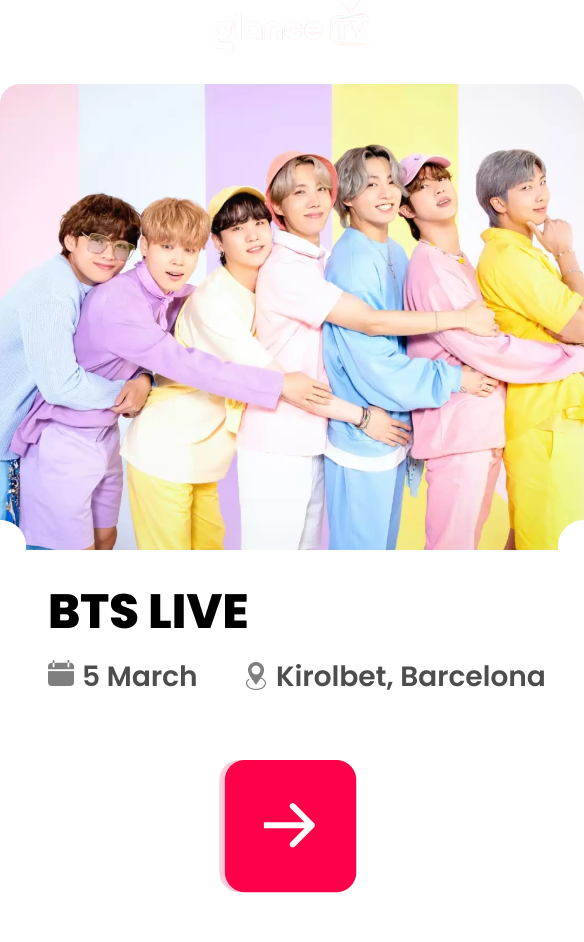
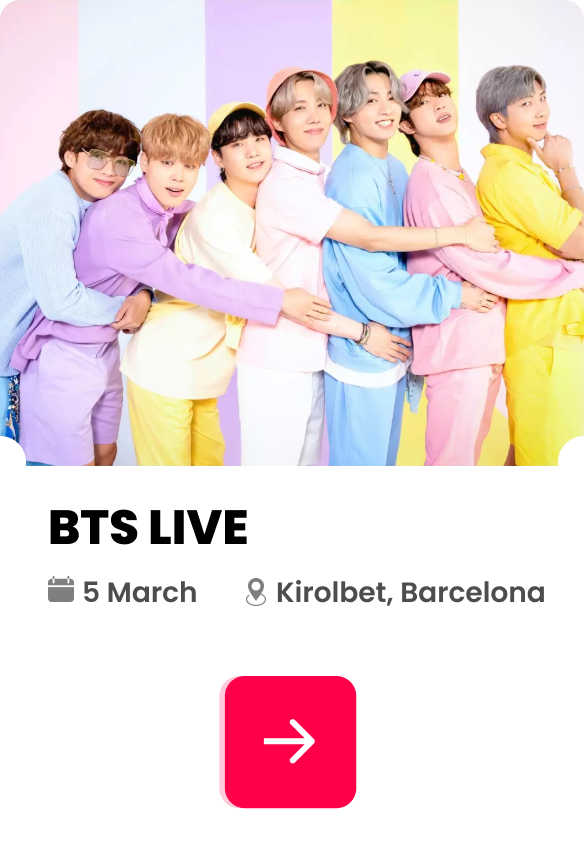
layout change

diff --git a/src/Components/BookTicket/BookTicket.css b/src/Components/BookTicket/BookTicket.css
@@ -1,16 +1,29 @@
+.book-ticket-container {
+    width: 100%;
+    height: 100%;
+    background: linear-gradient(165.93deg, #503977 0.47%, #000000 100%);
+    display: flex;
+    justify-content: center;
+    flex-direction: column;
+    align-items: center;
+
+}
+
 .book-ticket-wrapper{
     width: 100%;
     height: 100%;
     display: flex;
+    flex-direction: column;
     justify-content: center;
     align-items: center;
-    background: linear-gradient(165.93deg, #503977 0.47%, #000000 100%);
 
 }
 
-.title {
-    text-align: center;
-    margin-bottom: 30px;
+
+.logo {
+    margin-top: 16px;
+    width: 78px;
+    height: 26px;
 }
 
 

diff --git a/src/Components/Ama/Ama.css b/src/Components/Ama/Ama.css
@@ -1,14 +1,24 @@
-.container {
+.ama-container {
     width: 100%;
     height: 100%;
-
+    display: flex;
+    justify-content: center;
+    align-items: center;
+    flex-direction: column;
+    background: linear-gradient(165.93deg, #503977 0.47%, #000000 100%);
 
 }
 
-.title {
-    text-align: center;
-    margin-bottom: 30px;
+
+.ama-wrapper {
+    width: 100%;
+    height: 100%;
+    display: flex;
+    justify-content: center;
+    align-items: center;
 }
+
+
 
 
 .illus {

diff --git a/src/Components/BuySubscription/BuySubscription.css b/src/Components/BuySubscription/BuySubscription.css
@@ -1,10 +1,20 @@
+.buy-container {
+    width: 100%;
+    height: 100%;
+    display: flex;
+    justify-content: center;
+    align-items: center;
+    flex-direction: column;
+    background: linear-gradient(165.93deg, #503977 0.47%, #000000 100%);
+
+}
+
 .buy-wrapper {
     width: 100%;
     height: 100%;
     display: flex;
     justify-content: center;
     align-items: center;
-    background: linear-gradient(165.93deg, #503977 0.47%, #000000 100%);
 
 
 }

diff --git a/src/Components/BookTicket/BookTicket.js b/src/Components/BookTicket/BookTicket.js
@@ -2,8 +2,11 @@ import "./BookTicket.css";
 
 export const BookTicket = () => {
   return (
-    <div className="book-ticket-wrapper">
-      <img className="illus" src="/bookticket.png" alt="" />
+    <div className="book-ticket-container">
+      <img className="logo" src="/glance-logo.png" alt="" />
+      <div className="book-ticket-wrapper">
+        <img className="illus" src="/bookticket.png" alt="" />
+      </div>
     </div>
   );
 };

diff --git a/src/Components/BuySubscription/BuySubscription.js b/src/Components/BuySubscription/BuySubscription.js
@@ -2,8 +2,11 @@ import "./BuySubscription.css";
 
 export const BuySubscription = () => {
   return (
-    <div className="buy-wrapper">
-      <img className="illus" src="/subscription.png" alt="" />
+    <div className="buy-container">
+      <img className="logo" src="/glance-logo.png" alt="" />
+      <div className="buy-wrapper">
+        <img className="illus" src="/subscription.png" alt="" />
+      </div>
     </div>
   );
 };

diff --git a/src/Components/Shopping/Shopping.js b/src/Components/Shopping/Shopping.js
@@ -2,8 +2,11 @@ import "./Shopping.css";
 
 export const Shopping = () => {
   return (
-    <div className="container">
-      <img className="illus" src="/shopping.png" alt="" />
+    <div className="shopping-container">
+      <img className="logo" src="/glance-logo.png" alt="" />
+      <div className="shopping-wrapper">
+        <img className="illus" src="/shopping.png" alt="" />
+      </div>
     </div>
   );
 };

diff --git a/src/Components/Ama/Ama.js b/src/Components/Ama/Ama.js
@@ -2,8 +2,11 @@ import "./Ama.css";
 
 export const Ama = () => {
   return (
-    <div className="container">
-      <img className="illus" src="/ama.png" alt="" />
+    <div className="ama-container">
+      <img className="logo" src="/glance-logo.png" alt="" />
+      <div className="ama-wrapper">
+        <img className="illus" src="/ama.png" alt="" />
+      </div>
     </div>
   );
 };

diff --git a/src/Components/Shopping/Shopping.css b/src/Components/Shopping/Shopping.css
@@ -1,9 +1,18 @@
-.container {
+.shopping-container {
     width: 100%;
+    height: 100%;
     display: flex;
     align-items: center;
     flex-direction: column;
     background: linear-gradient(165.93deg, #503977 0.47%, #000000 100%);
+}
+
+.shopping-wrapper {
+    width: 100%;
+    height: 100%;
+    display: flex;
+    justify-content: center;
+    align-items: center;
 }
 
 
